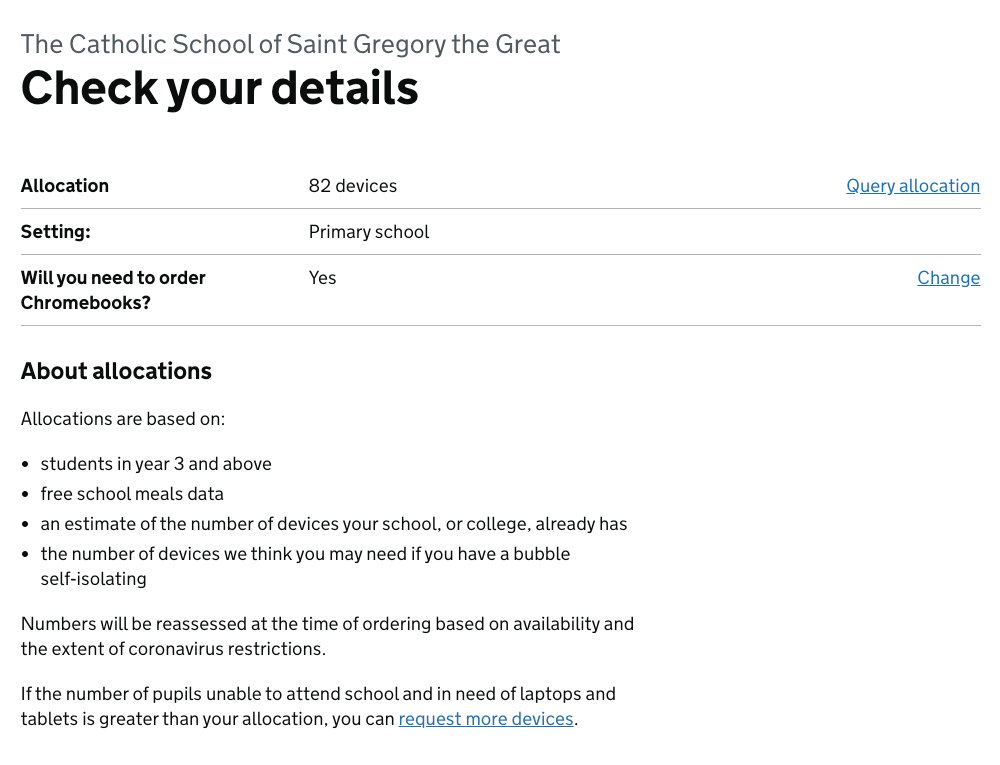
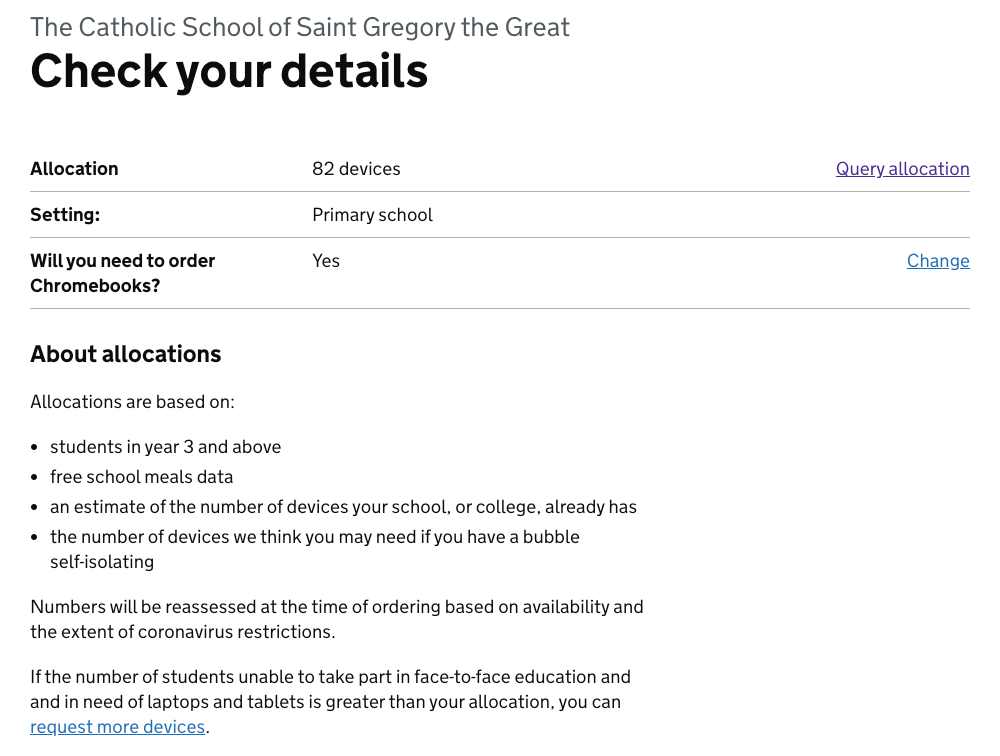
fixes incorrect screenshot showing and missed description of text change

diff --git a/app/posts/2020-12-11-fe-providers.md b/app/posts/2020-12-11-fe-providers.md
@@ -100,7 +100,9 @@ Changes:
 - row heading  from ‘School type’ to ‘Setting’
 - allocation description from ‘children in years 3 to 11’ to ‘students in year 3 or above’
 
-<img src="/images/fe-providers/08-how-to-order-guidance.png"
+For push change the description of ‘pupils unable to attend school’ to ‘students unable to take part in face-to-face education’ in guidance on when to request more devices.
+
+<img src="/images/fe-providers/09-check-your-details.png"
      alt="Changes to ordering guidance">
 
 #### Get help for specific circumstances
